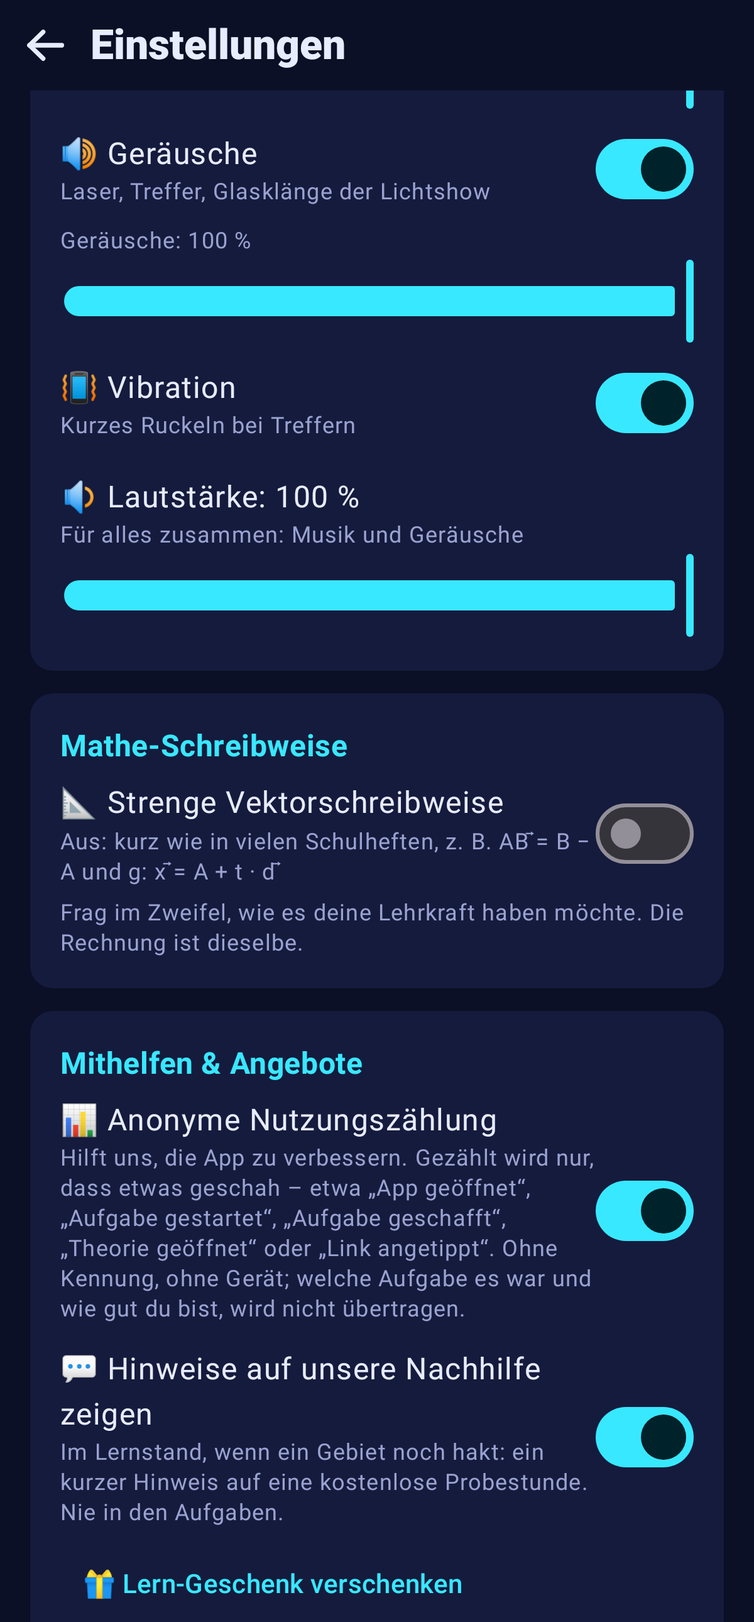
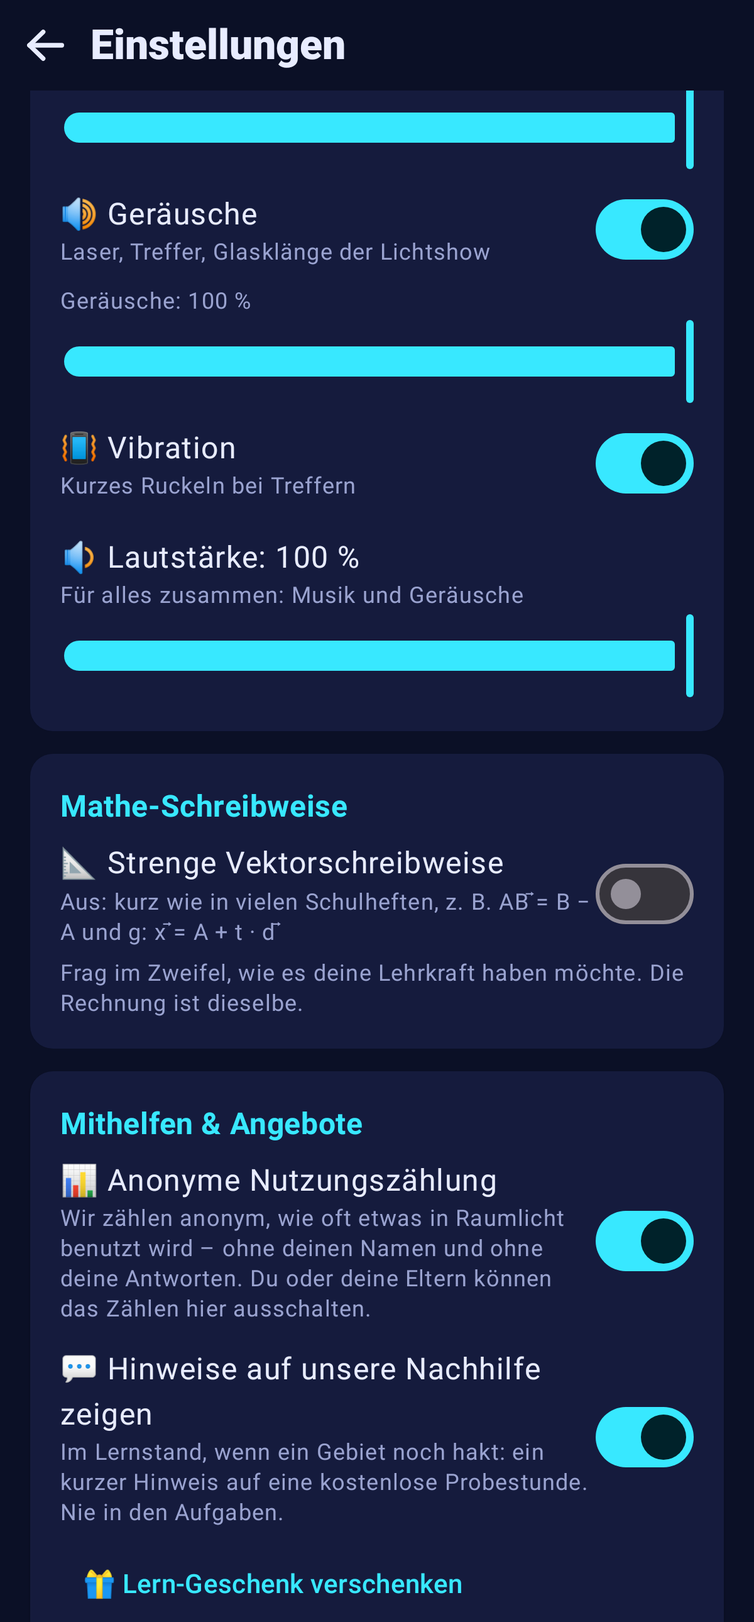
Raumlicht (in Arbeit, 2.18.39): Tor-Regeln V26 – Altersfrage beim Lösen mit Vermerk vom Kind gelöst, Zurücksetzen- und Zähl-Texte, Satz Unter 16, Datenschutz-Link
Claude-Session: https://claude.ai/code/session_015vg1TkCEYsXkAEYjbLFPi2

Changed region(s): [[0.0617, 0.062, 0.925, 0.8372], [0.74, 0.4961, 0.925, 0.6202], [0.7708, 0.7132, 0.925, 0.8062]]

diff --git a/raumlicht/app/src/test/java/de/raumlicht/app/ui/AppRootTest.kt b/raumlicht/app/src/test/java/de/raumlicht/app/ui/AppRootTest.kt
@@ -252,7 +252,7 @@ class AppRootTest {
         nav.go(Routes.BACKSTAGE); settle(); assertEquals(2, uploads.size); assertTrue(uploads[1].third.contains("\"aufgaben\":1"))
         // aufheben: Bericht auf dem Server löschen, Werte lokal weg
         org.robolectric.shadows.ShadowSystemClock.advanceBy(java.time.Duration.ofMillis(1000)); nav.restart(Routes.PARENTS); settle()
-        rule.onNodeWithTag("eltern-aufheben").performScrollTo().performClick(); settle(); rule.onNodeWithTag("eltern-aufheben-ja").performScrollTo().performClick(); settle()
+        rule.onNodeWithTag("eltern-aufheben").performScrollTo().performClick(); settle(); rule.onNodeWithTag("eltern-alter-ja").performScrollTo().performClick(); settle(); rule.onNodeWithTag("eltern-loesen-ja").performScrollTo().performClick(); settle()
         assertEquals(listOf("https://server.test/b/" + "A".repeat(22)), deleted.toList()); assertEquals("", prefs.parentLink.value); rule.onNodeWithTag("eltern-koppeln").assertExists()
         org.robolectric.shadows.ShadowSystemClock.advanceBy(java.time.Duration.ofMillis(1000)); nav.restart(Routes.HOME); settle(); assertEquals("nach dem Aufheben geht nichts mehr raus", 2, uploads.size)
     }
@@ -293,7 +293,7 @@ class AppRootTest {
         rule.onNodeWithTag("eltern-senden").performScrollTo().performClick(); settle(); assertEquals(3, uploads.size); assertTrue(uploads[2].first.contains("/b/"))
         state = state + ("sterne" to "1-1=3;1-2=3"); rule.onNodeWithTag("eltern-senden").performClick(); settle(); assertEquals(5, uploads.size); assertTrue(uploads[4].first.contains("/s/"))
         // aufheben: der Merker der Sicherung ist weg
-        rule.onNodeWithTag("eltern-aufheben").performScrollTo().performClick(); settle(); rule.onNodeWithTag("eltern-aufheben-ja").performScrollTo().performClick(); settle(); assertEquals("", prefs.backupMark)
+        rule.onNodeWithTag("eltern-aufheben").performScrollTo().performClick(); settle(); rule.onNodeWithTag("eltern-alter-ja").performScrollTo().performClick(); settle(); rule.onNodeWithTag("eltern-loesen-ja").performScrollTo().performClick(); settle(); assertEquals("", prefs.backupMark)
     }
 
     /** „← Alle Apps“ oben auf der Startseite: sichtbar, groß genug zum Tippen, ohne Preis – und nur dort, nicht in Aufgaben. */
@@ -398,6 +398,42 @@ class AppRootTest {
         // anderes Gerät: Die Familie ist weg → verständliche Meldung, Verbindung getrennt, Lernstand bleibt
         rule.runOnUiThread { prefs.family = de.raumlicht.core.model.Familie.State(fam, lea, "K7QX-2MFA", 3, "alt", "Lea").encode() }; saveAnswer = { Triple("weg", "", "") }
         zurueck(); nav.restart(Routes.HOME); settle(); assertEquals("sichern", calls.last()[0]); assertEquals("", prefs.family); assertTrue(applied.size == 1)
+    }
+
+    /** Verbindung zu den Eltern lösen: Altersfrage; ab 16 selbst (Vermerk „vom Kind gelöst“ statt Löschen), sonst nur über das Eltern-Tor (Löschen wie bisher). */
+    @Test fun kopplungLoesenMitAltersfrage() {
+        val zahl = mapOf("dreizehn" to 13, "vierzehn" to 14, "fünfzehn" to 15, "sechzehn" to 16, "siebzehn" to 17, "achtzehn" to 18, "neunzehn" to 19, "sechs" to 6, "sieben" to 7, "acht" to 8, "neun" to 9)
+        fun torAuf() { val m = Regex("Wie viel ist (\\S+) mal (\\S+)\\?").find(rule.onNodeWithTag("eltern-tor-aufgabe").fetchSemanticsNode().config[androidx.compose.ui.semantics.SemanticsProperties.Text].first().text)!!
+            (zahl.getValue(m.groupValues[1]) * zahl.getValue(m.groupValues[2])).toString().forEach { rule.onNodeWithTag("eltern-tor-taste-$it").performClick() }; rule.onNodeWithTag("eltern-tor-taste-OK").performClick(); settle() }
+        val released = ArrayList<List<String>>(); var releaseStatus = 204; val url = "https://server.test/b/" + "A".repeat(22)
+        eltern = de.raumlicht.app.ui.settings.ElternPlatform("https://server.test/b/", "https://seite.test/#weg/", { "A".repeat(22) + "." + "B".repeat(22) + "." + "C".repeat(43) },
+            { u, w, _, json, done -> uploads += Triple(u, w, json); done(204) }, { u, _, done -> deleted += u; done(204) },
+            release = { u, w, k, json, done -> released += listOf(u, w, k, json); done(releaseStatus) })
+        start(); rule.runOnUiThread { prefs.setParentLink(""); prefs.pendingRelease = ""; prefs.parentSent = 0 }
+        fun koppeln() { nav.restart(Routes.PARENTS); settle(); rule.onNodeWithTag("eltern-name").performScrollTo().performTextInput("Lea"); rule.onNodeWithTag("eltern-koppeln").performScrollTo().performClick(); settle(); assertNotEquals("", prefs.parentLink.value) }
+        fun aufheben() { rule.onNodeWithTag("eltern-aufheben").performScrollTo().performClick(); settle() }
+        koppeln()
+        // Altersfrage: wörtlich, beide Antworten gleich gestaltet; „Nein“ → nur die Eltern, „Zurück“ ändert nichts
+        aufheben(); rule.onNodeWithTag("eltern-alter-frage").assertTextEquals("Verbindung zu deinen Eltern lösen? Bist du 16 oder älter?")
+        rule.onNodeWithTag("eltern-alter-ja").assertTextEquals("Ja, ich bin 16 oder älter"); rule.onNodeWithTag("eltern-alter-nein").assertTextEquals("Nein")
+        rule.onNodeWithTag("eltern-alter-nein").performScrollTo().performClick(); settle(); rule.onNodeWithTag("eltern-nur-eltern").assertTextEquals("Dann können nur deine Eltern die Verbindung lösen – im Elternbereich.")
+        rule.onNodeWithTag("eltern-zurueck").performScrollTo().performClick(); settle(); rule.onNodeWithTag("eltern-aufheben").assertExists(); assertTrue(deleted.isEmpty() && released.isEmpty()); assertNotEquals("", prefs.parentLink.value)
+        // „Nein“ → Zum Elternbereich: erst das Eltern-Tor, dann Bestätigung – gelöscht wird wie bisher, ohne Vermerk
+        aufheben(); rule.onNodeWithTag("eltern-alter-nein").performScrollTo().performClick(); settle(); rule.onNodeWithTag("eltern-zum-bereich").performScrollTo().performClick(); settle()
+        rule.onNodeWithTag("eltern-tor").assertExists(); assertTrue(deleted.isEmpty()); torAuf()
+        rule.onNodeWithTag("eltern-aufheben-ja").performScrollTo().performClick(); settle()
+        assertEquals(listOf(url), deleted.toList()); assertTrue(released.isEmpty()); assertEquals("", prefs.parentLink.value); assertEquals("", prefs.pendingRelease)
+        // „Ja, ich bin 16 oder älter“ → Bestätigung → Vermerk statt Löschen, ohne Lerndaten und ohne Namen
+        koppeln(); aufheben(); rule.onNodeWithTag("eltern-alter-ja").performScrollTo().performClick(); settle()
+        rule.onNodeWithTag("eltern-loesen-text").assertTextEquals("Wenn du die Verbindung löst, sehen deine Eltern deinen Lernbericht nicht mehr. Wirklich lösen?")
+        rule.onNodeWithTag("eltern-loesen-abbrechen").performScrollTo().performClick(); settle(); assertTrue(released.isEmpty()); assertNotEquals("", prefs.parentLink.value)
+        aufheben(); rule.onNodeWithTag("eltern-alter-ja").performScrollTo().performClick(); settle(); rule.onNodeWithTag("eltern-loesen-ja").performScrollTo().performClick(); settle()
+        assertEquals(1, released.size); assertEquals(listOf(url, "B".repeat(22), "C".repeat(43)), released[0].take(3)); assertEquals("kein zweites Löschen", 1, deleted.size)
+        val note = released[0][3]; assertTrue(note, note.contains("\"status\":\"geloest\"") && note.contains("\"app\":\"raumlicht\"") && !note.contains("Lea") && !note.contains("sterne")); assertTrue(note.length < de.raumlicht.core.model.Eltern.MAX_RELEASE)
+        assertEquals("", prefs.parentLink.value); assertEquals("", prefs.pendingRelease)
+        // offline: der Vermerk bleibt vorgemerkt (nächster Start versucht es einmal), die Kopplung ist trotzdem gelöst
+        releaseStatus = 0; koppeln(); aufheben(); rule.onNodeWithTag("eltern-alter-ja").performScrollTo().performClick(); settle(); rule.onNodeWithTag("eltern-loesen-ja").performScrollTo().performClick(); settle()
+        assertEquals(2, released.size); assertEquals("", prefs.parentLink.value); assertEquals("A".repeat(22) + "." + "B".repeat(22) + "." + "C".repeat(43), prefs.pendingRelease)
     }
 
     /** Mit einem Familien-Link geöffnet: erst das Eltern-Tor, dann die Familien-Seite mit eingetragenem Link. */

diff --git a/raumlicht/shared/src/commonMain/kotlin/de/raumlicht/app/ui/settings/ElternScreen.kt b/raumlicht/shared/src/commonMain/kotlin/de/raumlicht/app/ui/settings/ElternScreen.kt
@@ -39,13 +39,15 @@ import de.raumlicht.core.model.Qr
  * @param load holt die Sicherung von [url] und entschlüsselt sie; [done] bekommt Status (200, 404, 0 = keine Verbindung, -1 = Schlüssel passt nicht) und Klartext
  * @param snapshot der Speicherstand der App für die Sicherung
  * @param apply setzt den Speicherstand aus einer Sicherung samt Kopplung und startet die App neu
+ * @param release schickt den Vermerk „vom Kind gelöst“ (statt zu löschen); null = nur Löschen
  */
 class ElternPlatform(val server: String, val page: String, val create: () -> String,
                      val send: (url: String, write: String, key: String, json: String, done: (Int) -> Unit) -> Unit,
                      val remove: (url: String, write: String, done: (Int) -> Unit) -> Unit,
                      val load: ((url: String, key: String, done: (Int, String) -> Unit) -> Unit)? = null,
                      val snapshot: (() -> Map<String, String>)? = null,
-                     val apply: ((data: Map<String, String>, pairing: String) -> Unit)? = null)
+                     val apply: ((data: Map<String, String>, pairing: String) -> Unit)? = null,
+                     val release: ((url: String, write: String, key: String, json: String, done: (Int) -> Unit) -> Unit)? = null)
 
 /** Eintrag in den Einstellungen: Ziel und ob gerade gekoppelt ist (null = gibt es hier nicht) */
 class ElternEntryState(val open: () -> Unit, val paired: Boolean)
@@ -70,11 +72,13 @@ fun QrImage(text: String, modifier: Modifier = Modifier) {
  * @param onRestore „Fortschritt wiederherstellen“ mit dem eingefügten Link (null = gibt es hier nicht)
  */
 @Composable
-fun ElternScreen(pairing: Eltern.Pairing?, page: String, status: String?, onPair: (name: String) -> Unit, onUnpair: () -> Unit, onSendNow: () -> Unit, onBack: () -> Unit,
+fun ElternScreen(pairing: Eltern.Pairing?, page: String, status: String?, onPair: (name: String) -> Unit, onUnpair: (byChild: Boolean) -> Unit, onSendNow: () -> Unit, onBack: () -> Unit,
                  backup: String? = null, restoreStatus: String? = null, restoreAsk: String? = null, onRestore: ((link: String) -> Unit)? = null, onRestoreYes: () -> Unit = {}, onRestoreNo: () -> Unit = {}) {
     val share = LocalShareText.current; val sfx = LocalSfx.current
     var name by rememberSaveable { mutableStateOf("") }
-    var sure by rememberSaveable { mutableStateOf(false) }
+    // Lösen: 0 nichts · 1 Altersfrage · 2 selbst lösen (ab 16) · 3 „Nein“: nur die Eltern · 4 Eltern bestätigen (nach dem Eltern-Tor)
+    var step by rememberSaveable { mutableStateOf(0) }
+    val gate = LocalElternTor.current
     var link by rememberSaveable { mutableStateOf("") }
     Column(Modifier.fillMaxSize().background(Q.Space).systemBarsPadding()) {
         Bar("Eltern-Handy koppeln", onBack)
@@ -117,12 +121,37 @@ fun ElternScreen(pairing: Eltern.Pairing?, page: String, status: String?, onPair
                 if (!backup.isNullOrEmpty()) Text(backup, Modifier.testTag("eltern-sicherung-status"), color = Q.Muted, fontSize = 13.sp)
                 Text("Der Bericht aktualisiert sich nach dem Lernen von selbst, höchstens alle 10 Minuten.", color = Q.Muted, fontSize = 12.sp)
                 NeonButton(onSendNow, Modifier.fillMaxWidth().testTag("eltern-senden"), color = Q.Muted) { Text("Bericht jetzt aktualisieren") }
-                if (!sure) Text("Kopplung aufheben", Modifier.testTag("eltern-aufheben").clickable { sure = true }.padding(vertical = 10.dp), color = Q.Orange, fontWeight = FontWeight.Bold, fontSize = 14.sp)
+                if (step == 0) Text("Kopplung aufheben", Modifier.testTag("eltern-aufheben").clickable { step = 1 }.padding(vertical = 10.dp), color = Q.Orange, fontWeight = FontWeight.Bold, fontSize = 14.sp)
                 else Column(Modifier.fillMaxWidth().background(Q.Deep, RoundedCornerShape(18.dp)).border(1.dp, Q.Orange.copy(alpha = 0.7f), RoundedCornerShape(18.dp)).padding(16.dp), verticalArrangement = Arrangement.spacedBy(8.dp)) {
-                    Text("Wirklich aufheben? Bericht und Sicherung werden gelöscht; der Link deiner Eltern zeigt dann nichts mehr. Dein Lernstand auf diesem Gerät bleibt.", color = Q.Text, fontSize = 14.sp)
-                    Row(horizontalArrangement = Arrangement.spacedBy(10.dp)) {
-                        NeonButton({ sure = false; onUnpair() }, Modifier.weight(1f).testTag("eltern-aufheben-ja"), color = Q.Orange) { Text("Ja, aufheben") }
-                        NeonButton({ sure = false }, Modifier.weight(1f), color = Q.Muted) { Text("Abbrechen") }
+                    when (step) {
+                        1 -> {   // Altersfrage (Selbstauskunft, wird nicht gespeichert); beide Knöpfe gleich gestaltet, keine Vorauswahl
+                            Text(Eltern.RELEASE_ASK, Modifier.testTag("eltern-alter-frage"), color = Q.Text, fontSize = 14.sp)
+                            Row(horizontalArrangement = Arrangement.spacedBy(10.dp)) {
+                                NeonButton({ step = 2 }, Modifier.weight(1f).testTag("eltern-alter-ja"), color = Q.Cyan) { Text(Eltern.RELEASE_YES) }
+                                NeonButton({ step = 3 }, Modifier.weight(1f).testTag("eltern-alter-nein"), color = Q.Cyan) { Text(Eltern.RELEASE_NO) }
+                            }
+                        }
+                        2 -> {   // ab 16: selbst lösen – die Eltern-Seite zeigt danach „vom Kind gelöst“
+                            Text(Eltern.RELEASE_SELF, Modifier.testTag("eltern-loesen-text"), color = Q.Text, fontSize = 14.sp)
+                            Row(horizontalArrangement = Arrangement.spacedBy(10.dp)) {
+                                NeonButton({ step = 0 }, Modifier.weight(1f).testTag("eltern-loesen-abbrechen"), color = Q.Muted) { Text("Abbrechen") }
+                                NeonButton({ step = 0; onUnpair(true) }, Modifier.weight(1f).testTag("eltern-loesen-ja"), color = Q.Orange) { Text("Verbindung lösen") }
+                            }
+                        }
+                        3 -> {   // unter 16: nur die Eltern – über das Eltern-Tor
+                            Text(Eltern.RELEASE_PARENTS, Modifier.testTag("eltern-nur-eltern"), color = Q.Text, fontSize = 14.sp)
+                            Row(horizontalArrangement = Arrangement.spacedBy(10.dp)) {
+                                NeonButton({ gate { step = 4 } }, Modifier.weight(1f).testTag("eltern-zum-bereich"), color = Q.Cyan) { Text("Zum Elternbereich") }
+                                NeonButton({ step = 0 }, Modifier.weight(1f).testTag("eltern-zurueck"), color = Q.Muted) { Text("Zurück") }
+                            }
+                        }
+                        else -> {   // Eltern haben das Tor geöffnet: löschen wie bisher, ohne Vermerk
+                            Text("Wirklich aufheben? Bericht und Sicherung werden gelöscht; der Link deiner Eltern zeigt dann nichts mehr. Dein Lernstand auf diesem Gerät bleibt.", color = Q.Text, fontSize = 14.sp)
+                            Row(horizontalArrangement = Arrangement.spacedBy(10.dp)) {
+                                NeonButton({ step = 0; onUnpair(false) }, Modifier.weight(1f).testTag("eltern-aufheben-ja"), color = Q.Orange) { Text("Ja, aufheben") }
+                                NeonButton({ step = 0 }, Modifier.weight(1f), color = Q.Muted) { Text("Abbrechen") }
+                            }
+                        }
                     }
                 }
             }

diff --git a/raumlicht/shared/src/commonMain/kotlin/de/raumlicht/app/ui/AppRoot.kt b/raumlicht/shared/src/commonMain/kotlin/de/raumlicht/app/ui/AppRoot.kt
@@ -259,6 +259,11 @@ fun AppRoot(
     var gatePending by remember { mutableStateOf<(() -> Unit)?>(null) }
     val gate: (() -> Unit) -> Unit = { action -> if (gateFree || de.raumlicht.core.model.ElternTor.open(gateOpenedAt, de.raumlicht.app.ui.fx.nowMillis())) action() else gatePending = action }
     LaunchedEffect(nav.top, famState?.fam) { val st = famState; if (nav.top == Routes.FAMILY && st != null && familie != null) familie.call(familie.server, "protokoll", st.fam, "", "", "") { r, x, _ -> if (r == "ok") famLog = de.raumlicht.core.model.Familie.protocol(x) else if (r == "weg") { famGone(); famText = ""; famOther = null; famStatus = de.raumlicht.core.model.Familie.GONE } } }
+    // Vermerk „vom Kind gelöst“ ist beim Lösen nicht angekommen (offline): einmal beim Start nachholen, sonst das alte Löschen
+    LaunchedEffect(Unit) { val e = eltern; val rel = e?.release; val (id, write, key) = de.raumlicht.core.model.Eltern.parsePending(prefs.pendingRelease) ?: return@LaunchedEffect
+        if (e == null || rel == null) { prefs.pendingRelease = ""; return@LaunchedEffect }
+        val url = e.server + id; prefs.pendingRelease = ""
+        rel(url, write, key, de.raumlicht.core.model.Eltern.releaseNote(de.raumlicht.app.ui.fx.nowMillis())) { status -> if (status !in 200..299 && status != 409) e.remove(url, write) { } } }
     LaunchedEffect(familieLink) { if (familieLink != null && familie != null) gate { nav.go(Routes.FAMILY) } }
     CompositionLocalProvider(LocalLuxSkin provides skin, LocalLuxLook provides look,
         de.raumlicht.app.ui.settings.LocalMix provides de.raumlicht.app.ui.settings.MixChoice(prefs.musicLevel.collectAsState().value, prefs::setMusicLevel, prefs.soundLevel.collectAsState().value, prefs::setSoundLevel),
@@ -428,7 +433,13 @@ fun AppRoot(
                     backup = if (eltern.snapshot != null) backupStatus ?: "" else null, restoreStatus = restoreStatus, restoreAsk = restoreFound?.let { de.raumlicht.core.model.Eltern.germanDay(it.stand) },
                     onRestore = if (eltern.load != null) ({ link -> restore(link) }) else null, onRestoreYes = { restoreFound?.let { applyRestore(it) } }, onRestoreNo = { restoreFound = null; restoreStatus = "Nichts geändert." },
                     onPair = { name -> de.raumlicht.core.model.Eltern.Pairing.fresh(eltern.create(), name)?.let { p -> prefs.setParentLink(p.encode()); parentStatus = null; sendReport(true) } },
-                    onUnpair = { pairing?.let { p -> eltern.remove(de.raumlicht.core.model.Eltern.uploadUrl(p, eltern.server), p.write) { } }; prefs.setParentLink(""); prefs.parentSent = 0; prefs.backupMark = ""; parentStatus = null; backupStatus = null },
+                    onUnpair = { byChild -> pairing?.let { p -> val url = de.raumlicht.core.model.Eltern.uploadUrl(p, eltern.server)
+                        // Kind ab 16 löst selbst: Vermerk „vom Kind gelöst“ statt Löschen (offline: einmal beim nächsten Start nachholen); über den Elternbereich: Löschen wie bisher
+                        if (byChild && eltern.release != null) { prefs.pendingRelease = de.raumlicht.core.model.Eltern.pending(p)
+                            eltern.release.invoke(url, p.write, p.key, de.raumlicht.core.model.Eltern.releaseNote(de.raumlicht.app.ui.fx.nowMillis())) { status ->
+                                if (status in 200..299 || status == 409) prefs.pendingRelease = "" else if (status != 0) { eltern.remove(url, p.write) { }; prefs.pendingRelease = "" } }
+                        } else eltern.remove(url, p.write) { } }
+                        prefs.setParentLink(""); prefs.parentSent = 0; prefs.backupMark = ""; parentStatus = null; backupStatus = null },
                     onSendNow = { sendReport(true) }, onBack = back)
                 Routes.FAMILY -> if (familie == null) LaunchedEffect(Unit) { nav.back() }
                     // direkt angesteuert (z. B. „?ziel=familie“): erst durchs Eltern-Tor

diff --git a/raumlicht/core/model/src/commonMain/kotlin/de/raumlicht/core/model/Eltern.kt b/raumlicht/core/model/src/commonMain/kotlin/de/raumlicht/core/model/Eltern.kt
@@ -42,6 +42,19 @@ object Eltern {
             fun fresh(values: String, name: String) = decode(values + "." + name.trim().replace('.', ' ').take(MAX_NAME))
         }
     }
+    // Wortlaute von „Recht“ (V26) für das Lösen der Verbindung
+    const val RELEASE_ASK = "Verbindung zu deinen Eltern lösen? Bist du 16 oder älter?"
+    const val RELEASE_YES = "Ja, ich bin 16 oder älter"
+    const val RELEASE_NO = "Nein"
+    const val RELEASE_SELF = "Wenn du die Verbindung löst, sehen deine Eltern deinen Lernbericht nicht mehr. Wirklich lösen?"
+    const val RELEASE_PARENTS = "Dann können nur deine Eltern die Verbindung lösen – im Elternbereich."
+    /** Höchstens so viele Zeichen darf der verschlüsselte Vermerk „vom Kind gelöst“ haben (Vorgabe des Leitstands) */
+    const val MAX_RELEASE = 2000
+    /** Vermerk „vom Kind gelöst“ (Klartext, ohne Lerndaten und ohne Namen): Die Eltern-Seite zeigt dann, dass das Kind die Verbindung selbst gelöst hat */
+    fun releaseNote(nowMs: Long): String = buildJsonObject { put("v", 1); put("status", "geloest"); put("app", Zaehler.APP); put("appName", "Raumlicht"); put("stand", iso(nowMs)) }.toString()
+    /** Merker „Vermerk noch zu senden“: „id.schreib.schluessel“ – nur bis zum nächsten erfolgreichen Senden (oder dem Ersatz-Löschen) */
+    fun pending(p: Pairing) = "${p.id}.${p.write}.${p.key}"
+    fun parsePending(s: String): Triple<String, String, String>? { val x = s.split('.'); return if (x.size == 3 && x.all { it.isNotEmpty() }) Triple(x[0], x[1], x[2]) else null }
     /** Der Link für die Eltern: Kennung und Schlüssel stehen hinter dem „#“ */
     fun link(p: Pairing, page: String = PAGE) = "$page#${p.id}.${p.key}"
     fun uploadUrl(p: Pairing, server: String = SERVER) = server + p.id
@@ -52,7 +65,7 @@ object Eltern {
     const val BACKUP_NOTE = "Solange gekoppelt ist, sichert Raumlicht deinen Lernstand zusätzlich verschlüsselt. Geht das Handy verloren oder werden die Browser-Daten gelöscht, " +
         "holst du ihn auf dem neuen Gerät mit dem Kopplungs-Link zurück. In der Sicherung stecken Sterne, Rekorde, Lernverlauf, Einstellungen und deine Freischalt-Codes."
     /** Was nicht in die Sicherung gehört: Geräte-Kennungen, die Kopplung selbst (kommt aus dem Link) und Merker dieses einen Browsers */
-    private val NOT_SAVED = setOf("kiDevice", "elternKopplung", "elternGesendet", "elternSicherung", "familie", "sparsam", "modus", "mitschrift", "startfehler", "test")
+    private val NOT_SAVED = setOf("kiDevice", "elternKopplung", "elternGesendet", "elternSicherung", "elternLoesen", "familie", "sparsam", "modus", "mitschrift", "startfehler", "test")
     fun saved(key: String) = key !in NOT_SAVED
     /** Zuerst weglassen, wenn die Sicherung zu groß würde – das braucht niemand zum Weiterlernen */
     private val DROP_FIRST = listOf("diary", "show", "ride", "flight")

diff --git a/raumlicht/web/src/wasmJsMain/kotlin/de/raumlicht/web/Browser.kt b/raumlicht/web/src/wasmJsMain/kotlin/de/raumlicht/web/Browser.kt
@@ -47,6 +47,18 @@ fun elternSenden(url: String, schreib: String, key: String, json: String, done: 
             .then(function (r) { done(r.status); }, function () { done(0); });
     } catch (e) { done(0); }
 }""")
+/** Wie [elternSenden], aber als Vermerk „vom Kind gelöst“ (Header X-Geloest: 1): Der Server löscht dabei sofort die Sicherung, markiert den Eintrag und lässt ihn nach 14 Tagen verfallen */
+fun elternGeloest(url: String, schreib: String, key: String, json: String, done: (Int) -> Unit): Unit = js("""{
+    try {
+        var b64 = function (u8) { var s = ''; for (var i = 0; i < u8.length; i++) s += String.fromCharCode(u8[i]); return btoa(s).split('+').join('-').split('/').join('_').split('=').join(''); };
+        var bin = atob(key.split('-').join('+').split('_').join('/')), raw = new Uint8Array(bin.length); for (var i = 0; i < bin.length; i++) raw[i] = bin.charCodeAt(i);
+        var iv = crypto.getRandomValues(new Uint8Array(12));
+        crypto.subtle.importKey('raw', raw, 'AES-GCM', false, ['encrypt'])
+            .then(function (k) { return crypto.subtle.encrypt({ name: 'AES-GCM', iv: iv }, k, new TextEncoder().encode(json)); })
+            .then(function (ct) { return fetch(url, { method: 'PUT', headers: { 'Content-Type': 'text/plain', 'X-Schreib': schreib, 'X-Geloest': '1' }, body: b64(iv) + '.' + b64(new Uint8Array(ct)), credentials: 'omit', referrerPolicy: 'no-referrer' }); })
+            .then(function (r) { done(r.status); }, function () { done(0); });
+    } catch (e) { done(0); }
+}""")
 fun elternLoeschen(url: String, schreib: String, done: (Int) -> Unit): Unit = js("{ try { fetch(url, { method: 'DELETE', headers: { 'X-Schreib': schreib }, credentials: 'omit', referrerPolicy: 'no-referrer' }).then(function (r) { done(r.status); }, function () { done(0); }); } catch (e) { done(0); } }")
 /** Holt die Sicherung und entschlüsselt sie mit [key]; [done] bekommt den Status (200 = gelesen, 404 = keine Sicherung, 0 = keine Verbindung, -1 = Schlüssel passt nicht) und den Klartext */
 fun elternHolen(url: String, key: String, done: (Int, String) -> Unit): Unit = js("""{

diff --git a/raumlicht/app/src/test/java/de/raumlicht/app/ui/PlayFlowTest.kt b/raumlicht/app/src/test/java/de/raumlicht/app/ui/PlayFlowTest.kt
@@ -136,7 +136,7 @@ class PlayFlowTest {
         var resets = 0
         show { de.raumlicht.app.ui.settings.SettingsScreen(true, {}, true, {}, true, {}, true, {}, "0.5.3", de.raumlicht.app.ui.settings.UpdateState.Idle, {}, onReset = { resets++ }) }
         rule.onNodeWithTag("zuruecksetzen").performScrollTo().performClick(); rule.mainClock.advanceTimeBy(500)
-        rule.onNodeWithText("Wirklich alles zurücksetzen?").assertExists()
+        rule.onNodeWithText("Fortschritt wirklich zurücksetzen?").assertExists()
         rule.onNodeWithTag("zuruecksetzen-nein").performClick(); rule.mainClock.advanceTimeBy(500); assertEquals(0, resets)      // Abbrechen löscht nichts
         rule.onNodeWithTag("zuruecksetzen").performScrollTo().performClick(); rule.mainClock.advanceTimeBy(500)
         rule.onNodeWithTag("zuruecksetzen-ja").performClick(); rule.mainClock.advanceTimeBy(500); assertEquals(1, resets)
@@ -259,7 +259,7 @@ class PlayFlowTest {
         var count = true; var hints = true
         show { CompositionLocalProvider(de.raumlicht.app.ui.settings.LocalOffers provides de.raumlicht.app.ui.settings.OffersChoice(count, { count = it }, hints, { hints = it })) {
             de.raumlicht.app.ui.settings.SettingsScreen(true, {}, true, {}, true, {}, true, {}, "2.18.22", de.raumlicht.app.ui.settings.UpdateState.Idle, {}) } }
-        rule.onNodeWithText("📊 Anonyme Nutzungszählung").performScrollTo().assertExists(); rule.onNodeWithText("Ohne Kennung, ohne Gerät", substring = true).assertExists()
+        rule.onNodeWithText("📊 Anonyme Nutzungszählung").performScrollTo().assertExists(); rule.onNodeWithText("ohne deinen Namen und ohne deine Antworten", substring = true).assertExists()
         rule.onNodeWithText("💬 Hinweise auf unsere Nachhilfe zeigen").performScrollTo().assertExists()
         rule.onNodeWithTag("geschenk").performScrollTo().assertTextContains("Lern-Geschenk verschenken", substring = true)
         rule.onRoot().captureRoboImage("../screenshots/85_schalter_zaehlung.png")

diff --git a/raumlicht/core/model/src/jvmTest/kotlin/de/raumlicht/core/model/ElternTest.kt b/raumlicht/core/model/src/jvmTest/kotlin/de/raumlicht/core/model/ElternTest.kt
@@ -119,4 +119,19 @@ class ElternTest {
         assertEquals(setOf("monat", "min", "aufgaben", "richtigProzent"), v[0].jsonObject.keys); assertEquals("50", v[0].jsonObject["richtigProzent"]!!.jsonPrimitive.content)
         assertEquals(0, Json.parseToJsonElement(Eltern.report("", emptyMap(), "", null, 20_772L, 0)).jsonObject["verlauf"]!!.jsonArray.size)
     }
+
+    @Test fun vermerkVomKindGeloest() {
+        val note = Eltern.releaseNote(1_700_000_000_000L)
+        val o = kotlinx.serialization.json.Json.parseToJsonElement(note) as kotlinx.serialization.json.JsonObject
+        assertEquals(setOf("v", "status", "app", "appName", "stand"), o.keys); assertEquals("geloest", (o["status"] as kotlinx.serialization.json.JsonPrimitive).content)
+        assertEquals("raumlicht", (o["app"] as kotlinx.serialization.json.JsonPrimitive).content); assertTrue((o["stand"] as kotlinx.serialization.json.JsonPrimitive).content.matches(Regex("\\d{4}-\\d\\d-\\d\\dT\\d\\d:\\d\\d:\\d\\dZ")))
+        assertTrue("verschlüsselt (iv 16 + ct) höchstens 2000 Zeichen", Eltern.sealedLength(note) <= Eltern.MAX_RELEASE)
+    }
+
+    @Test fun vorgemerkterVermerk() {
+        val p = Eltern.Pairing.decode("${"A".repeat(22)}.${"B".repeat(22)}.${"C".repeat(43)}.Lea")!!
+        assertEquals("${"A".repeat(22)}.${"B".repeat(22)}.${"C".repeat(43)}", Eltern.pending(p)); assertEquals(Triple("A".repeat(22), "B".repeat(22), "C".repeat(43)), Eltern.parsePending(Eltern.pending(p)))
+        assertNull(Eltern.parsePending("")); assertNull(Eltern.parsePending("a.b")); assertNull(Eltern.parsePending("a..c"))
+        assertFalse("der Merker gehört in keine Sicherung", Eltern.saved("elternLoesen"))
+    }
 }

diff --git a/raumlicht/web/src/wasmJsMain/kotlin/de/raumlicht/web/Store.kt b/raumlicht/web/src/wasmJsMain/kotlin/de/raumlicht/web/Store.kt
@@ -79,6 +79,7 @@ class WebPrefs : Prefs {
     override var parentSent: Long get() = storeGet(P + "elternGesendet")?.toLongOrNull() ?: 0L; set(v) = storeSet(P + "elternGesendet", v.toString())
     override var learnLog: String get() = storeGet(P + "lernProtokoll") ?: ""; set(v) = storeSet(P + "lernProtokoll", v)
     override var learnMonths: String get() = storeGet(P + "lernMonate") ?: ""; set(v) = storeSet(P + "lernMonate", v)
+    override var pendingRelease: String get() = storeGet(P + "elternLoesen") ?: ""; set(v) = storeSet(P + "elternLoesen", v)
     override var family: String get() = storeGet(P + "familie") ?: ""; set(v) = storeSet(P + "familie", v)
     override var backupMark: String get() = storeGet(P + "elternSicherung") ?: ""; set(v) = storeSet(P + "elternSicherung", v)
     private val _countUsage = flag("zaehlen", true)
@@ -90,7 +91,7 @@ class WebPrefs : Prefs {
 
     override fun resetProgress() {
         (storeKeys(P + "intro_") + "\n" + storeKeys(P + "exam_")).split('\n').filter { it.isNotBlank() }.forEach { storeRemove(it) }
-        listOf("jamBest", "lageBest", "balloonBest", "diary", "skin", "trail", "hat").forEach { storeRemove(P + it) }
+        listOf("jamBest", "lageBest", "balloonBest", "diary", "skin", "trail", "hat", "lernProtokoll", "lernMonate").forEach { storeRemove(P + it) }   // auch der Lernverlauf: der Bericht für die Eltern beginnt neu
         _jam.value = 0; _lage.value = 0; _balloon.value = 0; _exams.value = emptyMap(); _diary.value = ""; _skin.value = "pink"; _look.value = "none" to "none"
     }
 }

diff --git a/raumlicht/core/model/src/commonMain/kotlin/de/raumlicht/core/model/Familie.kt b/raumlicht/core/model/src/commonMain/kotlin/de/raumlicht/core/model/Familie.kt
@@ -35,10 +35,12 @@ object Familie {
     const val SECURITY = "Wer den Familien-Link oder den QR-Code hat, kann die Lernstände eurer Familie öffnen, ändern und löschen. " +
         "Teilt ihn nur mit Personen, denen ihr vertraut, und bewahrt das Notfall-Blatt sicher auf."
     const val DETAILS = "Freischalt-Codes stehen nicht im Lernstand der Kinder. Ohne Konto, ohne E-Mail-Adresse."
-    const val PRIVACY_URL = "https://www.mathenachhilfe-online.com/datenschutz/"
+    const val PRIVACY_URL = "https://www.mathenachhilfe-online.com/datenschutz/#familien-speicher"
     /** Einheitliche Warnung vor dem Löschen der ganzen Familie – Wortlaut nicht ändern */
     const val DELETE_WARNING = "Das löscht die Familie in ALLEN Lern-Apps: alle Lernstände aller Kinder auf unserem Server, die Notfall-Kopie und das Protokoll. " +
         "Gekaufte Codes werden wieder frei und lassen sich in einer neuen Familie erneut einlösen. Die Lernstände auf diesem Gerät bleiben erhalten."
+    /** Steht bei „Familie anlegen“ – wer unter 16 ist, legt nicht selbst an (Recht V26) */
+    const val UNDER_16 = "Unter 16? Dann legen bitte deine Eltern die Familie an."
     const val GONE = "Diese Familie gibt es nicht mehr. Lernstand bleibt auf diesem Gerät."
     const val DELETED = "Die Familie wurde gelöscht. Der Lernstand auf diesem Gerät bleibt."
     /** Familien-Nummer so lesen wie der Server: ohne Bindestrich und Leerzeichen, groß, O→0, I/L→1 */

diff --git a/raumlicht/web/src/wasmJsMain/kotlin/de/raumlicht/web/Main.kt b/raumlicht/web/src/wasmJsMain/kotlin/de/raumlicht/web/Main.kt
@@ -115,7 +115,7 @@ private fun WebApp() {
             AppRoot(nav, prefs, stars.all, stars::record, { todayLocal().toLong() },
                 eltern = remember { val test = isTestSite() || elternServer() != null
                     if (!de.raumlicht.core.model.Eltern.ENABLED && !test) null else de.raumlicht.app.ui.settings.ElternPlatform(elternServer() ?: if (test) de.raumlicht.core.model.Eltern.TEST_SERVER else de.raumlicht.core.model.Eltern.SERVER,
-                        if (test) de.raumlicht.core.model.Eltern.TEST_PAGE else de.raumlicht.core.model.Eltern.PAGE, ::elternNeu, ::elternSenden, ::elternLoeschen, ::elternHolen, ::snapshot, ::restoreSnapshot) },
+                        if (test) de.raumlicht.core.model.Eltern.TEST_PAGE else de.raumlicht.core.model.Eltern.PAGE, ::elternNeu, ::elternSenden, ::elternLoeschen, ::elternHolen, ::snapshot, ::restoreSnapshot, ::elternGeloest) },
                 familie = remember { val test = isTestSite() || familieServer() != null
                     if (!de.raumlicht.core.model.Familie.ENABLED && !test) null else de.raumlicht.app.ui.settings.FamiliePlatform(familieServer() ?: if (test) de.raumlicht.core.model.Familie.TEST_SERVER else de.raumlicht.core.model.Familie.SERVER,
                         if (test) de.raumlicht.core.model.Familie.TEST_SERVER else de.raumlicht.core.model.Familie.SERVER, test, ::familieRuf, ::snapshot, ::restoreFamily) },

diff --git a/raumlicht/core/data/src/main/java/de/raumlicht/core/data/Settings.kt b/raumlicht/core/data/src/main/java/de/raumlicht/core/data/Settings.kt
@@ -117,7 +117,7 @@ class Settings(ctx: Context) : de.raumlicht.core.model.Prefs {
     override fun resetProgress() {
         val e = prefs.edit()
         prefs.all.keys.filter { it.startsWith("intro_") || it.startsWith("exam_") }.forEach { e.remove(it) }
-        listOf("jamBest", "lageBest", "balloonBest", "diary", "skin", "trail", "hat").forEach { e.remove(it) }
+        listOf("jamBest", "lageBest", "balloonBest", "diary", "skin", "trail", "hat", "learnLog", "learnMonths").forEach { e.remove(it) }   // auch der Lernverlauf: der Bericht für die Eltern beginnt neu
         e.apply()
         _jamBest.value = 0; _lageBest.value = 0; _balloonBest.value = 0; _exams.value = emptyMap(); _diary.value = ""; _skin.value = "pink"; _look.value = "none" to "none"
     }
@@ -163,6 +163,9 @@ class Settings(ctx: Context) : de.raumlicht.core.model.Prefs {
     override var learnMonths: String
         get() = prefs.getString("learnMonths", "") ?: ""
         set(v) { prefs.edit().putString("learnMonths", v).apply() }
+    override var pendingRelease: String
+        get() = prefs.getString("pendingRelease", "") ?: ""
+        set(v) { prefs.edit().putString("pendingRelease", v).apply() }
     override var family: String
         get() = prefs.getString("family", "") ?: ""
         set(v) { prefs.edit().putString("family", v).apply() }

diff --git a/raumlicht/shared/src/commonMain/kotlin/de/raumlicht/app/ui/settings/SettingsPage.kt b/raumlicht/shared/src/commonMain/kotlin/de/raumlicht/app/ui/settings/SettingsPage.kt
@@ -162,9 +162,11 @@ fun SettingsPage(
     )
     if (ask) AlertDialog(
         onDismissRequest = { ask = false },
-        title = { Text("Wirklich alles zurücksetzen?") },
-        text = { Text("Alle Sterne, Rekorde, Abi-Punkte, das Fehler-Tagebuch, der Kalender und das freigespielte Aussehen von Lux werden gelöscht. Das lässt sich nicht rückgängig machen.\n\nTon-Einstellungen und dein Klausur-Plan bleiben.") },
-        confirmButton = { TextButton({ ask = false; done = true; onReset() }, Modifier.testTag("zuruecksetzen-ja")) { Text("Ja, zurücksetzen", color = Q.Orange) } },
+        title = { Text("Fortschritt wirklich zurücksetzen?") },
+        text = { Text("Dein ganzer Lernstand in Raumlicht wird auf diesem Gerät gelöscht. Das lässt sich nicht rückgängig machen." +
+            (if (LocalElternEntry.current?.paired == true) "\n\nAuch der Bericht für deine Eltern beginnt dann neu." else "") +
+            "\n\nTon-Einstellungen und dein Klausur-Plan bleiben.", Modifier.testTag("zuruecksetzen-text")) },
+        confirmButton = { TextButton({ ask = false; done = true; onReset() }, Modifier.testTag("zuruecksetzen-ja")) { Text("Zurücksetzen", color = Q.Orange) } },
         dismissButton = { TextButton({ ask = false }, Modifier.testTag("zuruecksetzen-nein")) { Text("Abbrechen") } },
     )
 }
